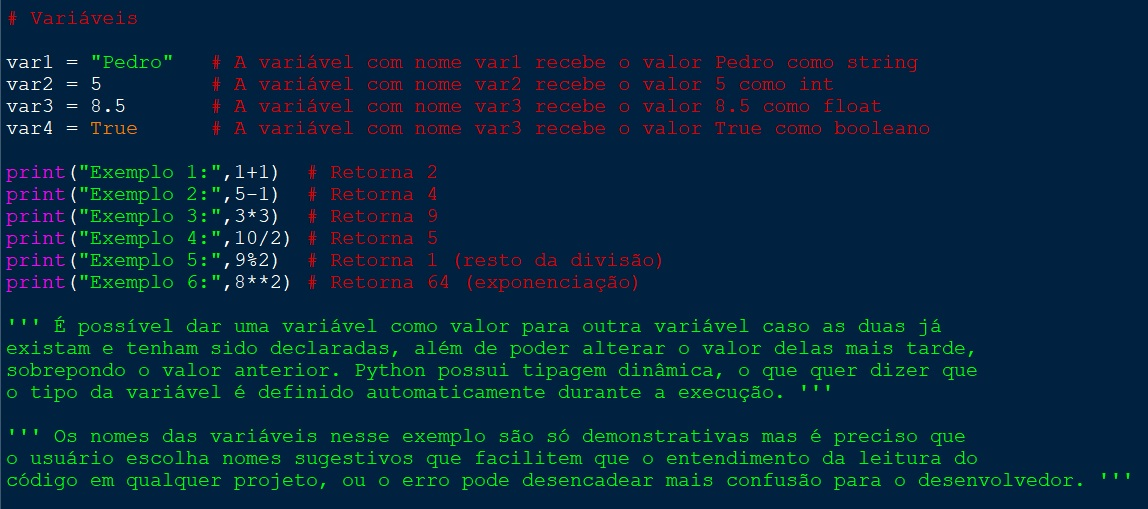
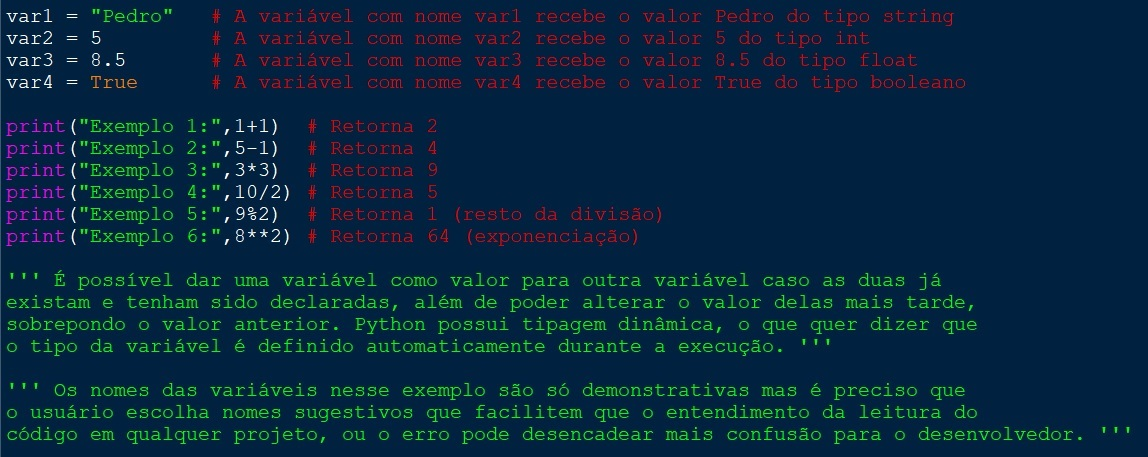
versão teste

Changed region(s): [[0.0, 0.0, 0.8537, 0.7965], [0.0, 0.8271, 0.9756, 0.9803]]

diff --git a/code/resumo.py b/code/resumo.py
@@ -22,10 +22,10 @@ print("-------------------------------------------------------------")
 
 # Variáveis
 
-var1 = "Pedro"   # A variável com nome var1 recebe o valor Pedro como string
-var2 = 5         # A variável com nome var2 recebe o valor 5 como int
-var3 = 8.5       # A variável com nome var3 recebe o valor 8.5 como float
-var4 = True      # A variável com nome var3 recebe o valor True como booleano
+var1 = "Pedro"   # A variável com nome var1 recebe o valor Pedro do tipo string
+var2 = 5         # A variável com nome var2 recebe o valor 5 do tipo int
+var3 = 8.5       # A variável com nome var3 recebe o valor 8.5 do tipo float
+var4 = True      # A variável com nome var4 recebe o valor True do tipo booleano
 
 print("Exemplo 1:",1+1)  # Retorna 2
 print("Exemplo 2:",5-1)  # Retorna 4
